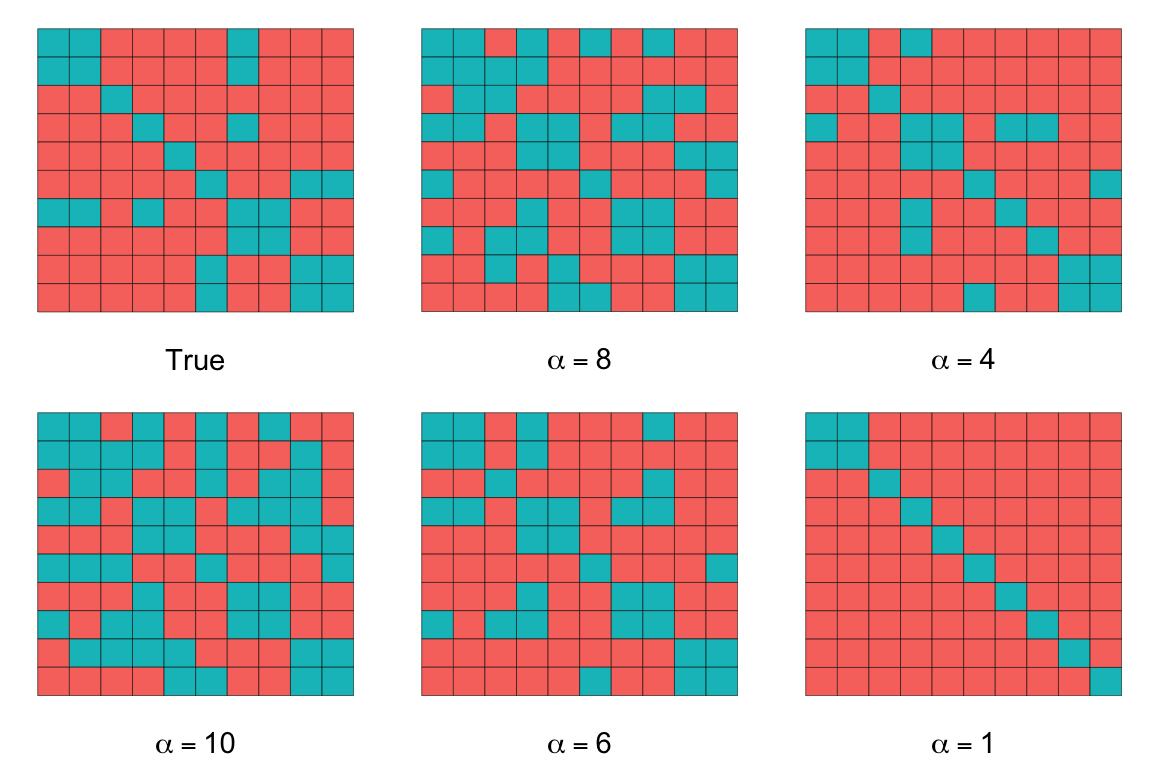
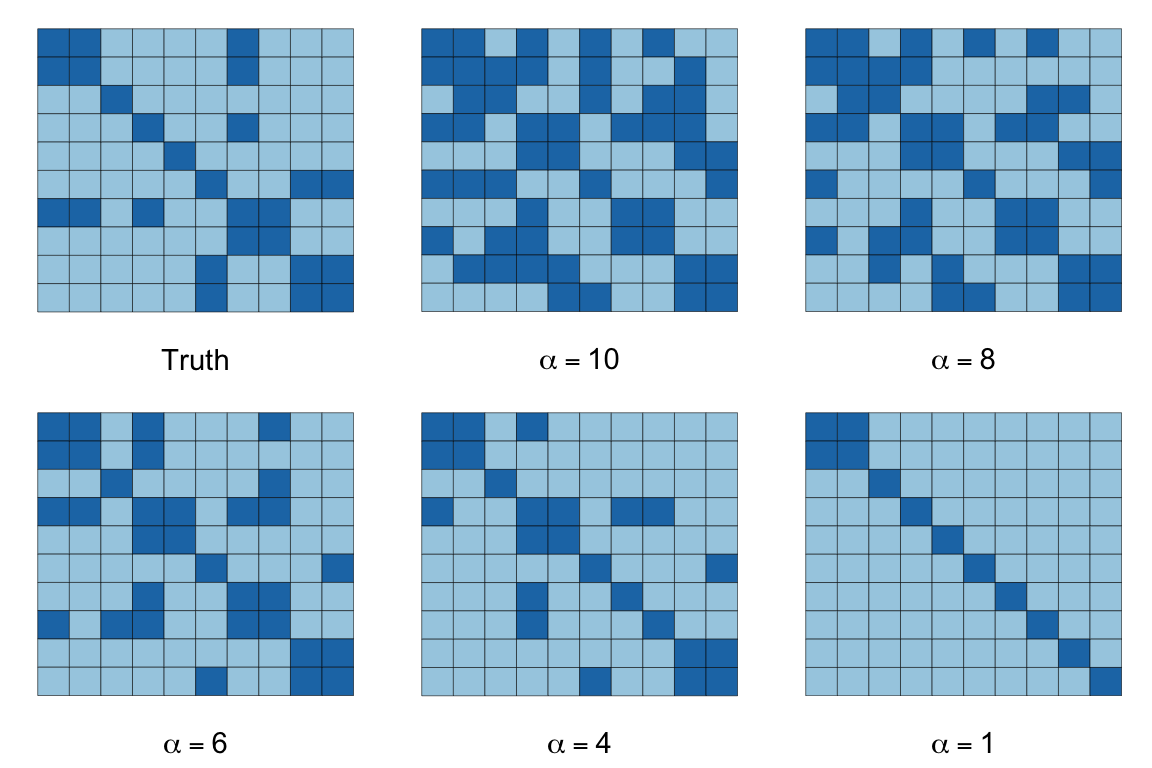
Fixed up colors
Fixed up colors

diff --git a/public/post/examples/cvxr_sparse_inverse_covariance_estimation/index.html b/public/post/examples/cvxr_sparse_inverse_covariance_estimation/index.html
@@ -77,10 +77,10 @@ S.est &lt;- lapply(alphas,
 </div>
 <div id="results" class="section level2">
 <h2>Results</h2>
-<p>The figures below depict the solutions for the above dataset with <span class="math inline">\(m = 1000, n = 10\)</span>, and <span class="math inline">\(S\)</span> containing 26% non-zero entries, represented by the green squares in the images below. The sparsity of our inverse covariance estimate decreases for higher <span class="math inline">\(\alpha\)</span>, so that when <span class="math inline">\(\alpha = 1\)</span>, most of the off-diagonal entries are zero, while if <span class="math inline">\(\alpha = 10\)</span>, over half the matrix is dense. At <span class="math inline">\(\alpha = 4\)</span>, we achieve the true percentage of non-zeros.</p>
+<p>The figures below depict the solutions for the above dataset with <span class="math inline">\(m = 1000, n = 10\)</span>, and <span class="math inline">\(S\)</span> containing 26% non-zero entries, represented by the dark squares in the images below. The sparsity of our inverse covariance estimate decreases for higher <span class="math inline">\(\alpha\)</span>, so that when <span class="math inline">\(\alpha = 1\)</span>, most of the off-diagonal entries are zero, while if <span class="math inline">\(\alpha = 10\)</span>, over half the matrix is dense. At <span class="math inline">\(\alpha = 4\)</span>, we achieve the true percentage of non-zeros.</p>
 <pre class="r"><code>do.call(multiplot, args = c(list(plotSpMat(Strue)),
                             mapply(plotSpMat, S.est, alphas, SIMPLIFY = FALSE),
-                            list(cols = 3)))</code></pre>
+                            list(layout = matrix(1:6, nrow = 2, byrow = TRUE))))</code></pre>
 <p><img src="../../../post/examples/cvxr_sparse_inverse_covariance_estimation_files/figure-html/unnamed-chunk-7-1.png" width="576" /></p>
 </div>
 <div id="session-info" class="section level2">
@@ -105,18 +105,19 @@ S.est &lt;- lapply(alphas,
 ## [1] expm_0.999-2  Matrix_1.2-11 CVXR_0.94-2   ggplot2_2.2.1
 ## 
 ## loaded via a namespace (and not attached):
-##  [1] gmp_0.5-13.1      Rcpp_0.12.13      compiler_3.4.2   
-##  [4] plyr_1.8.4        R.methodsS3_1.7.1 R.utils_2.6.0    
-##  [7] tools_3.4.2       digest_0.6.12     bit_1.1-12       
-## [10] evaluate_0.10.1   tibble_1.3.4      gtable_0.2.0     
-## [13] lattice_0.20-35   rlang_0.1.2       yaml_2.1.14      
-## [16] blogdown_0.1.7    Rmpfr_0.6-1       ECOSolveR_0.3-2  
-## [19] stringr_1.2.0     knitr_1.17        rprojroot_1.2    
-## [22] bit64_0.9-7       R6_2.2.2          rmarkdown_1.6    
-## [25] bookdown_0.5      magrittr_1.5      backports_1.1.1  
-## [28] scales_0.5.0      htmltools_0.3.6   scs_1.1-1        
-## [31] colorspace_1.3-2  labeling_0.3      stringi_1.1.5    
-## [34] lazyeval_0.2.1    munsell_0.4.3     R.oo_1.21.0</code></pre>
+##  [1] gmp_0.5-13.1       Rcpp_0.12.13       RColorBrewer_1.1-2
+##  [4] compiler_3.4.2     plyr_1.8.4         R.methodsS3_1.7.1 
+##  [7] R.utils_2.6.0      tools_3.4.2        digest_0.6.12     
+## [10] bit_1.1-12         evaluate_0.10.1    tibble_1.3.4      
+## [13] gtable_0.2.0       lattice_0.20-35    rlang_0.1.2       
+## [16] yaml_2.1.14        blogdown_0.1.7     Rmpfr_0.6-1       
+## [19] ECOSolveR_0.3-2    stringr_1.2.0      knitr_1.17        
+## [22] rprojroot_1.2      bit64_0.9-7        R6_2.2.2          
+## [25] rmarkdown_1.6      bookdown_0.5       magrittr_1.5      
+## [28] backports_1.1.1    scales_0.5.0       htmltools_0.3.6   
+## [31] scs_1.1-1          colorspace_1.3-2   labeling_0.3      
+## [34] stringi_1.1.5      lazyeval_0.2.1     munsell_0.4.3     
+## [37] R.oo_1.21.0</code></pre>
 </div>
 <div id="references" class="section level2 unnumbered">
 <h2>References</h2>

diff --git a/content/post/examples/cvxr_sparse_inverse_covariance_estimation.html b/content/post/examples/cvxr_sparse_inverse_covariance_estimation.html
@@ -63,10 +63,10 @@ S.est &lt;- lapply(alphas,
 </div>
 <div id="results" class="section level2">
 <h2>Results</h2>
-<p>The figures below depict the solutions for the above dataset with <span class="math inline">\(m = 1000, n = 10\)</span>, and <span class="math inline">\(S\)</span> containing 26% non-zero entries, represented by the green squares in the images below. The sparsity of our inverse covariance estimate decreases for higher <span class="math inline">\(\alpha\)</span>, so that when <span class="math inline">\(\alpha = 1\)</span>, most of the off-diagonal entries are zero, while if <span class="math inline">\(\alpha = 10\)</span>, over half the matrix is dense. At <span class="math inline">\(\alpha = 4\)</span>, we achieve the true percentage of non-zeros.</p>
+<p>The figures below depict the solutions for the above dataset with <span class="math inline">\(m = 1000, n = 10\)</span>, and <span class="math inline">\(S\)</span> containing 26% non-zero entries, represented by the dark squares in the images below. The sparsity of our inverse covariance estimate decreases for higher <span class="math inline">\(\alpha\)</span>, so that when <span class="math inline">\(\alpha = 1\)</span>, most of the off-diagonal entries are zero, while if <span class="math inline">\(\alpha = 10\)</span>, over half the matrix is dense. At <span class="math inline">\(\alpha = 4\)</span>, we achieve the true percentage of non-zeros.</p>
 <pre class="r"><code>do.call(multiplot, args = c(list(plotSpMat(Strue)),
                             mapply(plotSpMat, S.est, alphas, SIMPLIFY = FALSE),
-                            list(cols = 3)))</code></pre>
+                            list(layout = matrix(1:6, nrow = 2, byrow = TRUE))))</code></pre>
 <p><img src="/post/examples/cvxr_sparse_inverse_covariance_estimation_files/figure-html/unnamed-chunk-7-1.png" width="576" /></p>
 </div>
 <div id="session-info" class="section level2">
@@ -91,18 +91,19 @@ S.est &lt;- lapply(alphas,
 ## [1] expm_0.999-2  Matrix_1.2-11 CVXR_0.94-2   ggplot2_2.2.1
 ## 
 ## loaded via a namespace (and not attached):
-##  [1] gmp_0.5-13.1      Rcpp_0.12.13      compiler_3.4.2   
-##  [4] plyr_1.8.4        R.methodsS3_1.7.1 R.utils_2.6.0    
-##  [7] tools_3.4.2       digest_0.6.12     bit_1.1-12       
-## [10] evaluate_0.10.1   tibble_1.3.4      gtable_0.2.0     
-## [13] lattice_0.20-35   rlang_0.1.2       yaml_2.1.14      
-## [16] blogdown_0.1.7    Rmpfr_0.6-1       ECOSolveR_0.3-2  
-## [19] stringr_1.2.0     knitr_1.17        rprojroot_1.2    
-## [22] bit64_0.9-7       R6_2.2.2          rmarkdown_1.6    
-## [25] bookdown_0.5      magrittr_1.5      backports_1.1.1  
-## [28] scales_0.5.0      htmltools_0.3.6   scs_1.1-1        
-## [31] colorspace_1.3-2  labeling_0.3      stringi_1.1.5    
-## [34] lazyeval_0.2.1    munsell_0.4.3     R.oo_1.21.0</code></pre>
+##  [1] gmp_0.5-13.1       Rcpp_0.12.13       RColorBrewer_1.1-2
+##  [4] compiler_3.4.2     plyr_1.8.4         R.methodsS3_1.7.1 
+##  [7] R.utils_2.6.0      tools_3.4.2        digest_0.6.12     
+## [10] bit_1.1-12         evaluate_0.10.1    tibble_1.3.4      
+## [13] gtable_0.2.0       lattice_0.20-35    rlang_0.1.2       
+## [16] yaml_2.1.14        blogdown_0.1.7     Rmpfr_0.6-1       
+## [19] ECOSolveR_0.3-2    stringr_1.2.0      knitr_1.17        
+## [22] rprojroot_1.2      bit64_0.9-7        R6_2.2.2          
+## [25] rmarkdown_1.6      bookdown_0.5       magrittr_1.5      
+## [28] backports_1.1.1    scales_0.5.0       htmltools_0.3.6   
+## [31] scs_1.1-1          colorspace_1.3-2   labeling_0.3      
+## [34] stringi_1.1.5      lazyeval_0.2.1     munsell_0.4.3     
+## [37] R.oo_1.21.0</code></pre>
 </div>
 <div id="references" class="section level2 unnumbered">
 <h2>References</h2>

diff --git a/public/post/examples/cvxr_near-isotonic-and-near-convex-regression/index.html b/public/post/examples/cvxr_near-isotonic-and-near-convex-regression/index.html
@@ -126,7 +126,42 @@ data.nearconvex &lt;- data.frame(year = cdiac$year, annual = cdiac$annual, est =
 <p><img src="../../../post/examples/cvxr_near-isotonic-and-near-convex-regression_files/figure-html/unnamed-chunk-7-1.png" width="672" /></p>
 <div id="notes" class="section level2">
 <h2>Notes</h2>
-<p>We can easily extend this example to higher-order differences or lags. To make this easy, the function <code>diff</code> takes an argument <code>differences</code> is by default 1; a third-order difference is specified as <code>diff(x, differences = 3)</code>.</p>
+<p>We can easily extend this example to higher-order differences or lags. To make this easy, the function <code>diff</code> takes an argument <code>differences</code> that 1 by default; a third-order difference is specified as <code>diff(x, differences = 3)</code>.</p>
+</div>
+<div id="session-info" class="section level2">
+<h2>Session Info</h2>
+<pre class="r"><code>sessionInfo()</code></pre>
+<pre><code>## R version 3.4.2 (2017-09-28)
+## Platform: x86_64-apple-darwin15.6.0 (64-bit)
+## Running under: macOS High Sierra 10.13.1
+## 
+## Matrix products: default
+## BLAS: /Library/Frameworks/R.framework/Versions/3.4/Resources/lib/libRblas.0.dylib
+## LAPACK: /Library/Frameworks/R.framework/Versions/3.4/Resources/lib/libRlapack.dylib
+## 
+## locale:
+## [1] en_US.UTF-8/en_US.UTF-8/en_US.UTF-8/C/en_US.UTF-8/en_US.UTF-8
+## 
+## attached base packages:
+## [1] methods   stats     graphics  grDevices datasets  utils     base     
+## 
+## other attached packages:
+## [1] ggplot2_2.2.1 boot_1.3-20   CVXR_0.94-2  
+## 
+## loaded via a namespace (and not attached):
+##  [1] gmp_0.5-13.1      Rcpp_0.12.13      compiler_3.4.2   
+##  [4] plyr_1.8.4        R.methodsS3_1.7.1 R.utils_2.6.0    
+##  [7] tools_3.4.2       digest_0.6.12     bit_1.1-12       
+## [10] evaluate_0.10.1   tibble_1.3.4      gtable_0.2.0     
+## [13] lattice_0.20-35   rlang_0.1.2       Matrix_1.2-11    
+## [16] yaml_2.1.14       blogdown_0.1.7    Rmpfr_0.6-1      
+## [19] ECOSolveR_0.3-2   stringr_1.2.0     knitr_1.17       
+## [22] rprojroot_1.2     bit64_0.9-7       grid_3.4.2       
+## [25] R6_2.2.2          rmarkdown_1.6     bookdown_0.5     
+## [28] magrittr_1.5      backports_1.1.1   scales_0.5.0     
+## [31] htmltools_0.3.6   scs_1.1-1         colorspace_1.3-2 
+## [34] labeling_0.3      stringi_1.1.5     lazyeval_0.2.1   
+## [37] munsell_0.4.3     R.oo_1.21.0</code></pre>
 </div>
 <div id="references" class="section level2 unnumbered">
 <h2>References</h2>

diff --git a/content/post/examples/cvxr_near-isotonic-and-near-convex-regression.html b/content/post/examples/cvxr_near-isotonic-and-near-convex-regression.html
@@ -112,7 +112,42 @@ data.nearconvex &lt;- data.frame(year = cdiac$year, annual = cdiac$annual, est =
 <p><img src="/post/examples/cvxr_near-isotonic-and-near-convex-regression_files/figure-html/unnamed-chunk-7-1.png" width="672" /></p>
 <div id="notes" class="section level2">
 <h2>Notes</h2>
-<p>We can easily extend this example to higher-order differences or lags. To make this easy, the function <code>diff</code> takes an argument <code>differences</code> is by default 1; a third-order difference is specified as <code>diff(x, differences = 3)</code>.</p>
+<p>We can easily extend this example to higher-order differences or lags. To make this easy, the function <code>diff</code> takes an argument <code>differences</code> that 1 by default; a third-order difference is specified as <code>diff(x, differences = 3)</code>.</p>
+</div>
+<div id="session-info" class="section level2">
+<h2>Session Info</h2>
+<pre class="r"><code>sessionInfo()</code></pre>
+<pre><code>## R version 3.4.2 (2017-09-28)
+## Platform: x86_64-apple-darwin15.6.0 (64-bit)
+## Running under: macOS High Sierra 10.13.1
+## 
+## Matrix products: default
+## BLAS: /Library/Frameworks/R.framework/Versions/3.4/Resources/lib/libRblas.0.dylib
+## LAPACK: /Library/Frameworks/R.framework/Versions/3.4/Resources/lib/libRlapack.dylib
+## 
+## locale:
+## [1] en_US.UTF-8/en_US.UTF-8/en_US.UTF-8/C/en_US.UTF-8/en_US.UTF-8
+## 
+## attached base packages:
+## [1] methods   stats     graphics  grDevices datasets  utils     base     
+## 
+## other attached packages:
+## [1] ggplot2_2.2.1 boot_1.3-20   CVXR_0.94-2  
+## 
+## loaded via a namespace (and not attached):
+##  [1] gmp_0.5-13.1      Rcpp_0.12.13      compiler_3.4.2   
+##  [4] plyr_1.8.4        R.methodsS3_1.7.1 R.utils_2.6.0    
+##  [7] tools_3.4.2       digest_0.6.12     bit_1.1-12       
+## [10] evaluate_0.10.1   tibble_1.3.4      gtable_0.2.0     
+## [13] lattice_0.20-35   rlang_0.1.2       Matrix_1.2-11    
+## [16] yaml_2.1.14       blogdown_0.1.7    Rmpfr_0.6-1      
+## [19] ECOSolveR_0.3-2   stringr_1.2.0     knitr_1.17       
+## [22] rprojroot_1.2     bit64_0.9-7       grid_3.4.2       
+## [25] R6_2.2.2          rmarkdown_1.6     bookdown_0.5     
+## [28] magrittr_1.5      backports_1.1.1   scales_0.5.0     
+## [31] htmltools_0.3.6   scs_1.1-1         colorspace_1.3-2 
+## [34] labeling_0.3      stringi_1.1.5     lazyeval_0.2.1   
+## [37] munsell_0.4.3     R.oo_1.21.0</code></pre>
 </div>
 <div id="references" class="section level2 unnumbered">
 <h2>References</h2>
